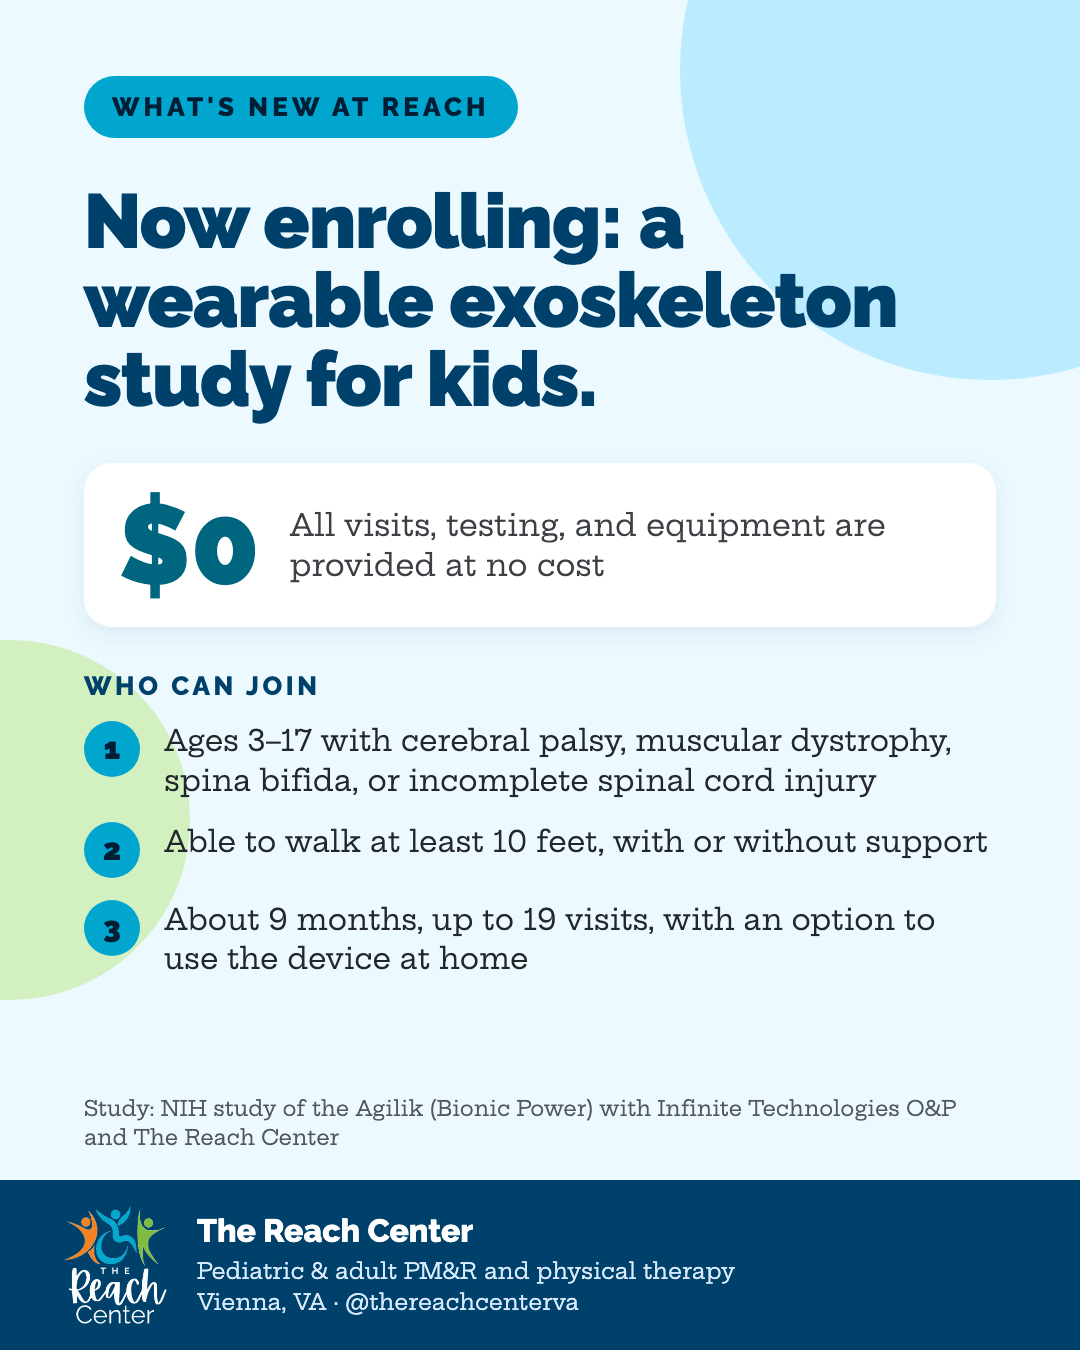
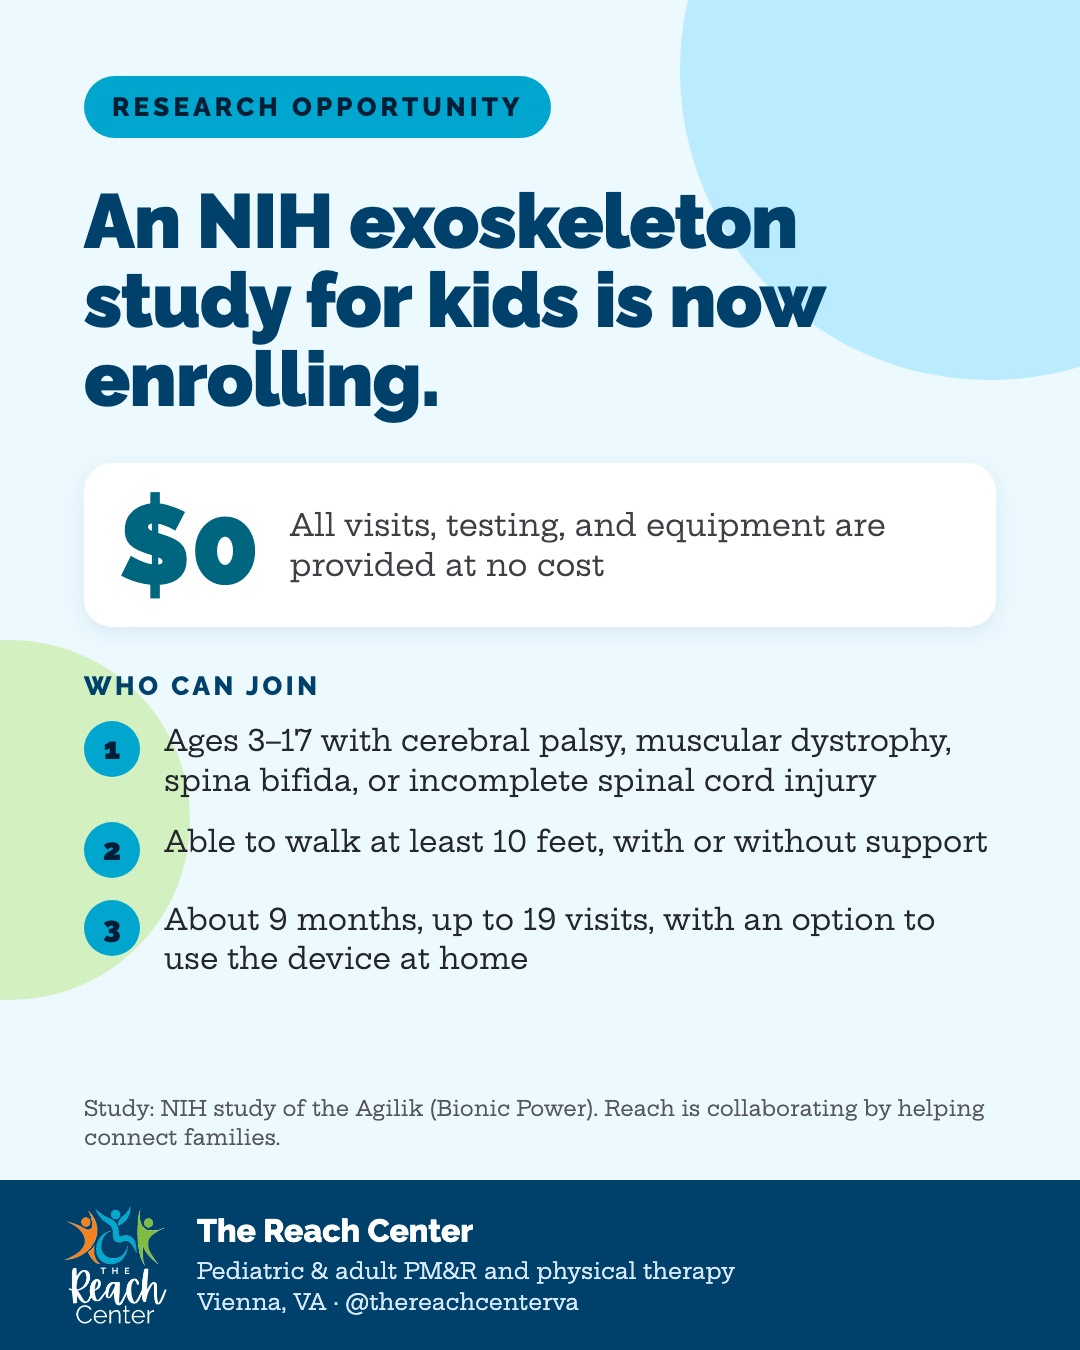
Nov post 2 revised per Kelly (NIH collaboration wording)

Changed region(s): [[0.0611, 0.0311, 0.8556, 0.3111], [0.55, 0.8089, 0.9167, 0.84], [0.0917, 0.84, 0.3056, 0.8711]]

diff --git a/2026-11/index.html b/2026-11/index.html
@@ -1,2 +1,2 @@
 <!doctype html><html><head><meta charset="utf-8"><meta name="viewport" content="width=device-width,initial-scale=1"><meta name="robots" content="noindex">
-<title>Reach posts November 2026</title><style>body{margin:0;padding:16px;background:#F7FBFE;font:16px/1.55 Georgia,serif;color:#23272A}.p{max-width:1080px;margin:0 auto 40px;background:#fff;border-radius:12px;padding:16px;display:flex;gap:24px;flex-wrap:wrap}.p img{width:100%;max-width:480px;height:auto;border-radius:8px}.c{flex:1;min-width:260px}h1{font:800 24px Arial,sans-serif;color:#00416B;max-width:1080px;margin:8px auto 20px}.h{font:700 13px Arial,sans-serif;letter-spacing:.12em;text-transform:uppercase;color:#00657E;margin-bottom:8px}</style></head><body><h1>The Reach Center: proposed posts for November 2026</h1><div class="p"><img src="post-1.png?v=2" alt="Post 1"><div class="c"><div class="h">Post 1 · Tue Nov 3, 11:30 AM · Research spotlight (kids)</div>What if therapy started with the activity your child actually wants to do?<br><br>A new randomized trial in Pediatrics (August 2026) followed 110 children with cerebral palsy, ages 8 to 14. About half received Participate-CP: 12 weekly sessions built around each child&#x27;s own activity goals and the specific barriers getting in the way.<br><br>Compared with usual care, those kids made bigger gains on their own activity goals, moved at a higher average intensity, reported fewer barriers, and took part in community activities more often.<br><br>The takeaway for families: start with what your child wants to do, name what is in the way, and bring that list to your therapy team.<br><br>Save this for your next visit.<br><br>Source: Sakzewski L, et al. Pediatrics. 2026;158(2):e2025075162.<br><br>#cerebralpalsy #pediatricrehab #adaptivesports #physicaltherapy #physiatry #NoVA</div></div><div class="p"><img src="post-2.png?v=2" alt="Post 2"><div class="c"><div class="h">Post 2 · Tue Nov 10, 11:30 AM · What&#x27;s new at Reach</div>Something new at Reach: we are part of an NIH study testing the Agilik, a wearable exoskeleton made by Bionic Power to help children walk more easily and confidently.<br><br>Who can join: children ages 3 to 17 with conditions such as cerebral palsy, muscular dystrophy, spina bifida, or incomplete spinal cord injury who can walk at least 10 feet, with or without assistive support.<br><br>What it involves: a custom-fit device, about 9 months, up to 19 visits, and an option to use the device at home for part of the program. All visits, testing, and equipment are provided at no cost.<br><br>The study is run with Infinite Technologies Orthotics and Prosthetics in Arlington. Details at reachpedsrehab.com/agilik-research-study or call us at (571) 310-2502.<br><br>P.S. Planning December? Fairfax County Parks has hosted a Sensory-Friendly Santa at Colvin Run Mill in recent Decembers. Watch their site for this year&#x27;s sign-ups.<br><br>#exoskeleton #cerebralpalsy #spinabifida #musculardystrophy #pediatricrehab #research #NoVA</div></div><div class="p"><img src="post-3.png?v=2" alt="Post 3"><div class="c"><div class="h">Post 3 · Tue Nov 17, 11:30 AM · Seasonal tips</div>Traveling for Thanksgiving? A little planning this week makes the trip easier for everyone.<br><br>1. Flying? Contact TSA Cares at least 72 hours before your flight at (855) 787-2227 or through the request form on tsa.gov. They can arrange help at the security checkpoint for travelers with disabilities and medical conditions.<br><br>2. Car seats: the American Academy of Pediatrics advises against puffy coats or snowsuits under the harness. They compress in a crash and leave the straps loose. Buckle in snugly, then put the coat or a blanket on top.<br><br>3. Keep medications, braces, and device chargers in your carry-on, not in checked bags.<br><br>4. Long drive? Plan stops to stretch, reposition, and move every couple of hours.<br><br>Send this to someone hitting the road next week. Happy Thanksgiving from all of us at Reach.<br><br>#accessibletravel #disabilitytravel #carseatsafety #Thanksgiving #pediatricrehab #physicaltherapy</div></div><div class="p"><img src="post-4.png?v=2" alt="Post 4"><div class="c"><div class="h">Post 4 · Tue Nov 24, 11:30 AM · Research spotlight (adults)</div>Ice season is coming. One of the best-studied ways to stay on your feet is also one of the simplest: practice your balance.<br><br>A Cochrane review pooled randomized trials of exercise for older adults living in the community. Balance and functional exercise reduced the rate of falls by about 24% (39 trials, 7,920 people, high-certainty evidence). Programs that combined balance and functional work with strength training likely did even better, about 34% fewer falls.<br><br>What counts: exercises that challenge your balance and mimic daily movements, like standing up from a chair, stepping, and turning, done regularly over months.<br><br>Not sure where to start, or living with a condition that affects your balance? Ask your physiatrist or physical therapist which program fits you.<br><br>Save this and share it with someone you love.<br><br>Source: Sherrington C, et al. Exercise for preventing falls in older people living in the community. Cochrane Database Syst Rev. 2019;1:CD012424.<br><br>#fallprevention #balance #healthyaging #physiatry #physicaltherapy #PMR #NoVA</div></div></body></html>
+<title>Reach posts November 2026</title><style>body{margin:0;padding:16px;background:#F7FBFE;font:16px/1.55 Georgia,serif;color:#23272A}.p{max-width:1080px;margin:0 auto 40px;background:#fff;border-radius:12px;padding:16px;display:flex;gap:24px;flex-wrap:wrap}.p img{width:100%;max-width:480px;height:auto;border-radius:8px}.c{flex:1;min-width:260px}h1{font:800 24px Arial,sans-serif;color:#00416B;max-width:1080px;margin:8px auto 20px}.h{font:700 13px Arial,sans-serif;letter-spacing:.12em;text-transform:uppercase;color:#00657E;margin-bottom:8px}</style></head><body><h1>The Reach Center: proposed posts for November 2026</h1><div class="p"><img src="post-1.png?v=3" alt="Post 1"><div class="c"><div class="h">Post 1 · Tue Nov 3, 11:30 AM · Research spotlight (kids)</div>What if therapy started with the activity your child actually wants to do?<br><br>A new randomized trial in Pediatrics (August 2026) followed 110 children with cerebral palsy, ages 8 to 14. About half received Participate-CP: 12 weekly sessions built around each child&#x27;s own activity goals and the specific barriers getting in the way.<br><br>Compared with usual care, those kids made bigger gains on their own activity goals, moved at a higher average intensity, reported fewer barriers, and took part in community activities more often.<br><br>The takeaway for families: start with what your child wants to do, name what is in the way, and bring that list to your therapy team.<br><br>Save this for your next visit.<br><br>Source: Sakzewski L, et al. Pediatrics. 2026;158(2):e2025075162.<br><br>#cerebralpalsy #pediatricrehab #adaptivesports #physicaltherapy #physiatry #NoVA</div></div><div class="p"><img src="post-2.png?v=3" alt="Post 2"><div class="c"><div class="h">Post 2 · Tue Nov 10, 11:30 AM · What&#x27;s new at Reach</div>We&#x27;re glad to be collaborating with the NIH on its study of the Agilik, a wearable exoskeleton made by Bionic Power to help children walk more easily and confidently. The NIH research team runs the study; Reach helps connect interested families with it.<br><br>Who can join: children ages 3 to 17 with conditions such as cerebral palsy, muscular dystrophy, spina bifida, or incomplete spinal cord injury who can walk at least 10 feet, with or without assistive support.<br><br>What it involves: a custom-fit device, about 9 months, up to 19 visits, and an option to use the device at home for part of the program. All visits, testing, and equipment are provided at no cost.<br><br>Interested? Learn more at reachpedsrehab.com/agilik-research-study or call us at (571) 310-2502 and we can help you connect with the study team.<br><br>P.S. Planning December? Fairfax County Parks has hosted a Sensory-Friendly Santa at Colvin Run Mill in recent Decembers. Watch their site for this year&#x27;s sign-ups.<br><br>#exoskeleton #cerebralpalsy #spinabifida #musculardystrophy #pediatricrehab #research #NoVA</div></div><div class="p"><img src="post-3.png?v=3" alt="Post 3"><div class="c"><div class="h">Post 3 · Tue Nov 17, 11:30 AM · Seasonal tips</div>Traveling for Thanksgiving? A little planning this week makes the trip easier for everyone.<br><br>1. Flying? Contact TSA Cares at least 72 hours before your flight at (855) 787-2227 or through the request form on tsa.gov. They can arrange help at the security checkpoint for travelers with disabilities and medical conditions.<br><br>2. Car seats: the American Academy of Pediatrics advises against puffy coats or snowsuits under the harness. They compress in a crash and leave the straps loose. Buckle in snugly, then put the coat or a blanket on top.<br><br>3. Keep medications, braces, and device chargers in your carry-on, not in checked bags.<br><br>4. Long drive? Plan stops to stretch, reposition, and move every couple of hours.<br><br>Send this to someone hitting the road next week. Happy Thanksgiving from all of us at Reach.<br><br>#accessibletravel #disabilitytravel #carseatsafety #Thanksgiving #pediatricrehab #physicaltherapy</div></div><div class="p"><img src="post-4.png?v=3" alt="Post 4"><div class="c"><div class="h">Post 4 · Tue Nov 24, 11:30 AM · Research spotlight (adults)</div>Ice season is coming. One of the best-studied ways to stay on your feet is also one of the simplest: practice your balance.<br><br>A Cochrane review pooled randomized trials of exercise for older adults living in the community. Balance and functional exercise reduced the rate of falls by about 24% (39 trials, 7,920 people, high-certainty evidence). Programs that combined balance and functional work with strength training likely did even better, about 34% fewer falls.<br><br>What counts: exercises that challenge your balance and mimic daily movements, like standing up from a chair, stepping, and turning, done regularly over months.<br><br>Not sure where to start, or living with a condition that affects your balance? Ask your physiatrist or physical therapist which program fits you.<br><br>Save this and share it with someone you love.<br><br>Source: Sherrington C, et al. Exercise for preventing falls in older people living in the community. Cochrane Database Syst Rev. 2019;1:CD012424.<br><br>#fallprevention #balance #healthyaging #physiatry #physicaltherapy #PMR #NoVA</div></div></body></html>
